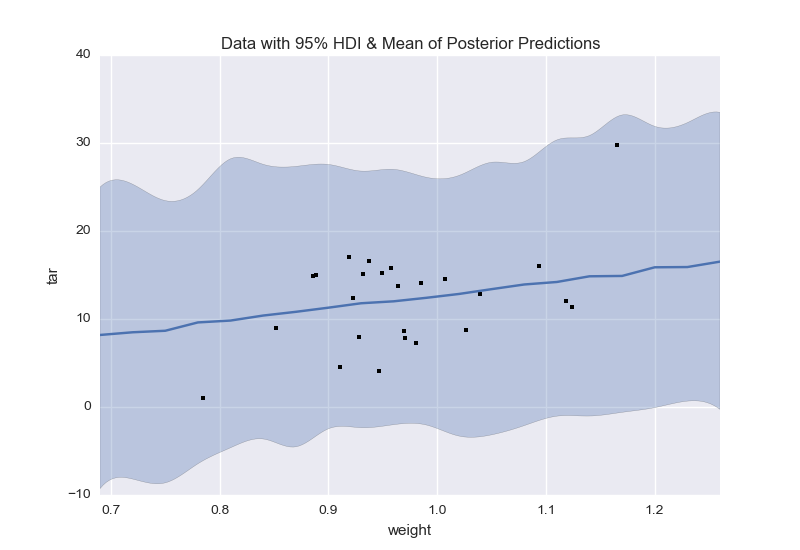
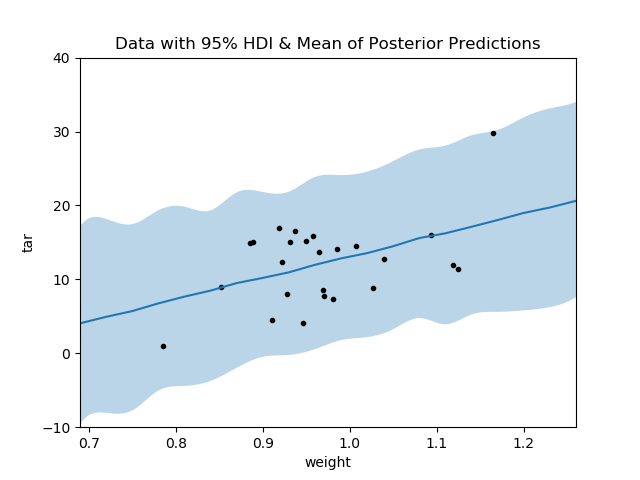
update sampling, python3 compatible, use darkgrid style

diff --git a/16_SimpleRobustLinearRegressionPyMC.py b/16_SimpleRobustLinearRegressionPyMC.py
@@ -7,10 +7,9 @@ import pymc3 as pm
 from scipy.stats import t, norm
 from scipy.interpolate import spline
 import matplotlib.pyplot as plt
-from plot_post import plot_post
+plt.style.use('seaborn-darkgrid')
 from hpd import *
 from HtWtDataGenerator import *
-import seaborn as sns
 
 
 # THE DATA.
@@ -35,45 +34,36 @@ tdf_gain = 1 # 1 for low-baised tdf, 100 for high-biased tdf
 # THE MODEL
 with pm.Model() as model:
     # define the priors
-    udf = pm.Uniform('udf', 0, 1)
-    tdf = 1 - tdf_gain * pm.log(1 - udf) # tdf in [1,Inf).
-    tau = pm.Gamma('tau', 0.001, 0.001)
-    beta0 = pm.Normal('beta0', mu=0, tau=1.0E-12)
-    beta1 = pm.Normal('beta1', mu=0, tau=1.0E-12)
+    tdf = pm.Exponential('tdf', 1/30.)
+    sd = pm.HalfNormal('sd', 25)
+    beta0 = pm.Normal('beta0', mu=0, sd=100)
+    beta1 = pm.Normal('beta1', mu=0, sd=100)
     mu = beta0 + beta1 * zx
     # define the likelihood
-    yl = pm.T('yl', mu=mu, lam=tau, nu=tdf, observed=zy)
+    yl = pm.StudentT('yl', mu=mu, sd=sd, nu=tdf, observed=zy)
     # Generate a MCMC chain
-    start = pm.find_MAP()
-    step = pm.Metropolis()
-    trace = pm.sample(20000, step, start, progressbar=False)
+    trace = pm.sample(2000)
 
 
 # EXAMINE THE RESULTS
-burnin = 1000
-thin = 10
 
 ## Print summary for each trace
-#pm.summary(trace[burnin::thin])
 #pm.summary(trace)
 
 ## Check for mixing and autocorrelation
-#pm.autocorrplot(trace[burnin::thin], vars =[tau])
 #pm.autocorrplot(trace, vars =[tau])
 
 ## Plot KDE and sampled values for each parameter.
-#pm.traceplot(trace[burnin::thin])
 #pm.traceplot(trace)
 
 
 # Extract chain values:
 
-tdf_samp = 1 - tdf_gain * np.log(1 - trace['udf'][burnin::thin])
+tdf_samp = trace['tdf']
 tdf_m = np.mean(tdf_samp)
-z0 = trace["beta0"][burnin::thin]
-z1 = trace["beta1"][burnin::thin]
-z_tau = trace["tau"][burnin::thin]
-z_sigma = 1 / np.sqrt(z_tau) # Convert precision to SD
+z0 = trace["beta0"] 
+z1 = trace["beta1"] 
+z_sigma = trace["sd"] 
 
 # Convert to original scale:
 b1 = z1 * y_sd / x_sd
@@ -115,9 +105,8 @@ plt.xlabel("Slope")
 plt.savefig('Figure_16.x0.png')
 
 # Display the posterior of the b1:
-plt.figure()
-plot_post(b1, xlab=r'Slope ($\Delta$ tar  / $\Delta$ weight)', comp_val=0.0,
-            show_mode=False, bins=30)
+ax = pm.plot_posterior(b1, ref_val=0.0, bins=30)
+ax.set_xlabel(r'Slope ($\Delta$ tar  / $\Delta$ weight)')
 plt.title('Mean tdf = %.2f' % tdf_m)
 plt.savefig('Figure_16.8b.png')
 

diff --git a/08_BernTwoGrid.py b/08_BernTwoGrid.py
@@ -3,6 +3,7 @@ Inferring two binomial proportions via grid aproximation.
 """
 from __future__ import division
 import matplotlib.pyplot as plt
+plt.style.use('seaborn-darkgrid')
 from mpl_toolkits.mplot3d.axes3d import Axes3D
 from scipy.stats import beta
 from HDI_of_grid import HDI_of_grid
